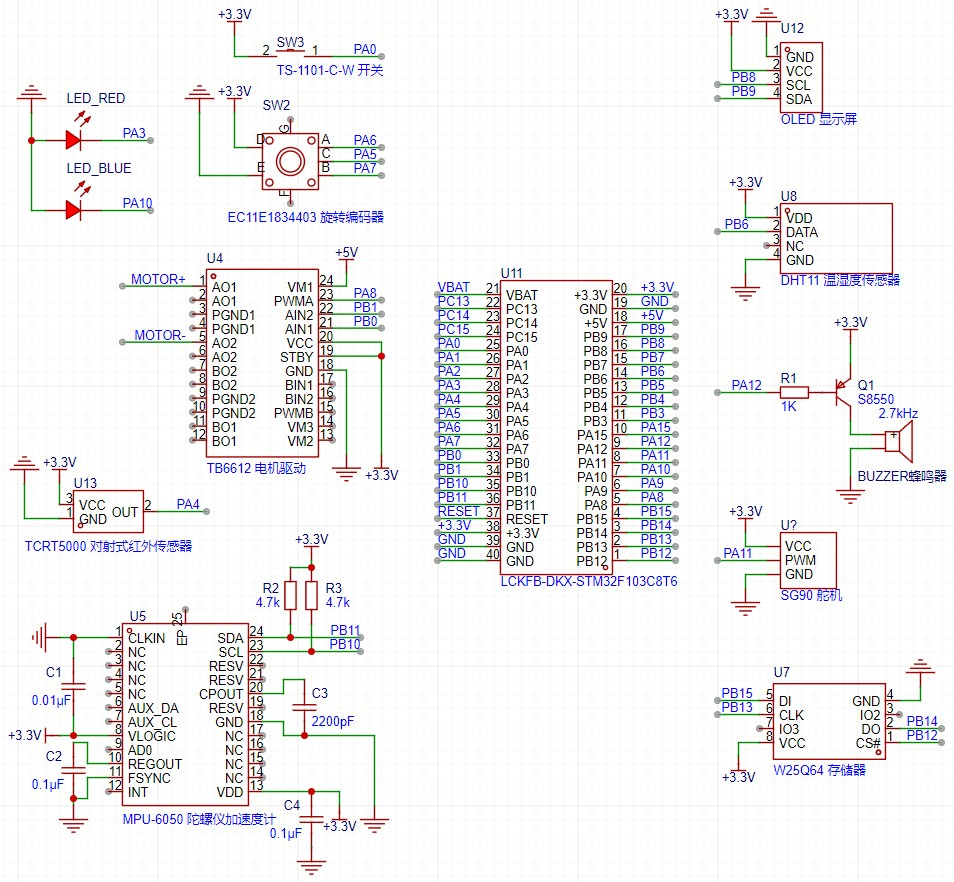
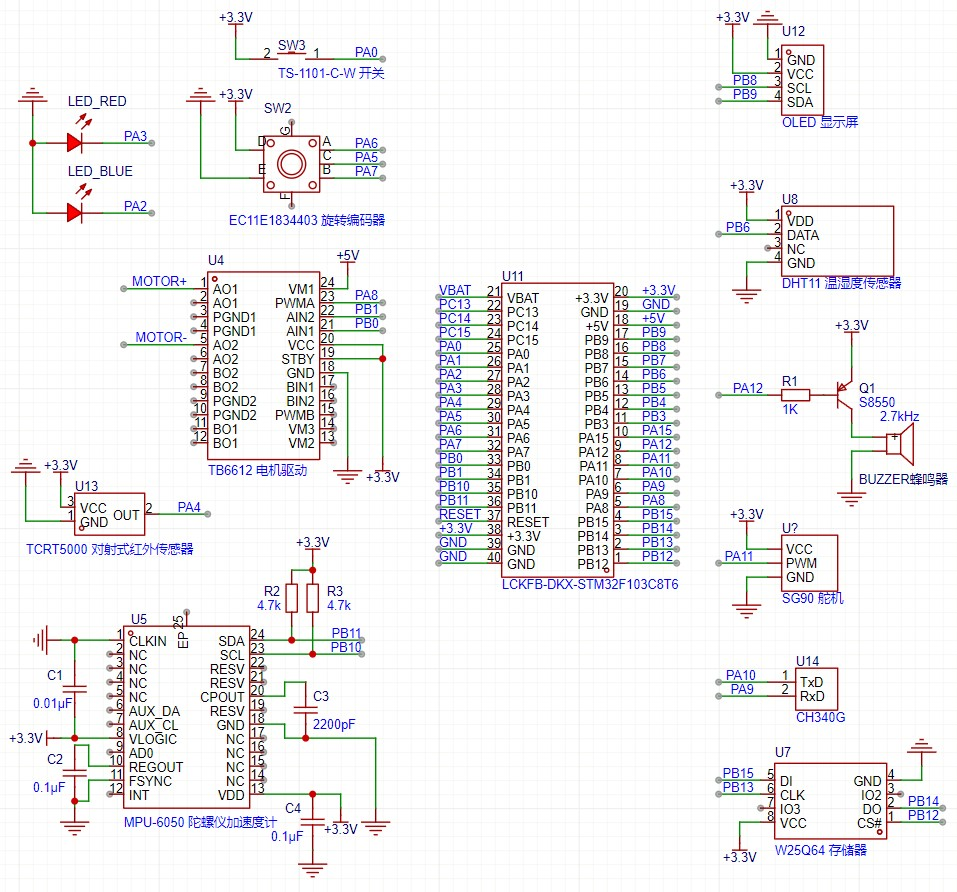
修改LED_Blue的引脚(PA10->PA2)，添加USART驱动，添加Print的Debug驱动

diff --git a/User/Driver/Base/Drv_USART.c b/User/Driver/Base/Drv_USART.c
@@ -1,0 +1,169 @@
+#include "stm32f10x.h"                  // Device header
+#include "Drv_USART.h"
+#include "Sys_Delay.h"
+#include <stdio.h>
+
+
+typedef struct
+{
+    USART_ID ID;
+    GPIO_TypeDef* PORT;
+    uint16_t PIN_TX;
+    uint16_t PIN_RX;
+    GPIOMode_TypeDef MODE_TX;
+    GPIOMode_TypeDef MODE_RX;
+    uint32_t _RCC;
+    USART_TypeDef* USARTx;
+    uint32_t USART_RCC;
+    uint32_t USART_BaudRate;
+    uint16_t USART_WordLength;
+    uint16_t USART_StopBits;
+    uint16_t USART_Parity;
+    uint16_t USART_Mode;
+    uint16_t USART_HardwareFlowControl;
+    uint32_t NVIC_PriorityGroup;
+    uint8_t NVIC_IRQChannel;
+    uint8_t NVIC_IRQChannelPreemptionPriority;
+    uint8_t NVIC_IRQChannelSubPriority;
+    FunctionalState NVIC_IRQChannelCmd;
+} USART_HARDWARE;
+
+typedef struct {
+    USART_ID ID;
+    USART_HARDWARE HW;
+} USART_Data;
+
+void SendData(struct USART_Device* pDev, uint8_t ch);
+int ReceiveData(struct USART_Device* pDev);
+
+
+//--------------------------------------------------
+
+
+static USART_HARDWARE g_USART_HWs[USART_NUM] = {
+    {
+        .ID = USART_1,
+        .PORT = GPIOA,
+        .PIN_TX = GPIO_Pin_9,
+        .PIN_RX = GPIO_Pin_10,
+        .MODE_TX = GPIO_Mode_AF_PP,
+        .MODE_RX = GPIO_Mode_IN_FLOATING,
+        ._RCC = RCC_APB2Periph_GPIOA,
+        .USARTx = USART1,
+        .USART_RCC = RCC_APB2Periph_USART1,
+        .USART_BaudRate = 115200,
+        .USART_WordLength = USART_WordLength_8b,
+        .USART_StopBits = USART_StopBits_1,
+        .USART_Parity = USART_Parity_No,
+        .USART_Mode = USART_Mode_Rx | USART_Mode_Tx,
+        .USART_HardwareFlowControl = USART_HardwareFlowControl_None,
+        .NVIC_PriorityGroup = NVIC_PriorityGroup_4,
+        .NVIC_IRQChannel = USART1_IRQn,
+        .NVIC_IRQChannelPreemptionPriority = 7,
+        .NVIC_IRQChannelSubPriority = 0,
+        .NVIC_IRQChannelCmd = ENABLE,
+    },
+};
+static USART_Data g_USART_Datas[USART_NUM];
+static USART_Device g_USART_Devs[USART_NUM];
+
+
+//--------------------------------------------------
+
+
+USART_Device* Drv_USART_GetDevice(USART_ID ID)
+{
+    for (int i = 0; i < sizeof(g_USART_Devs) / sizeof(g_USART_Devs[0]); i++)
+    {
+        USART_Data* pData = (USART_Data*)g_USART_Devs[i].Priv_Data;
+        if (pData == 0)
+            return 0;
+        if (pData->ID == ID)
+            return &g_USART_Devs[i];
+    }
+    return 0;
+}
+
+void Drv_USART_Init(void)
+{
+    for (uint8_t i = 0; i < USART_NUM; i++)
+    {
+        // Get Hardware
+        USART_HARDWARE hw;
+        for (uint8_t j = 0; j < sizeof(g_USART_HWs) / sizeof(g_USART_HWs[0]); j++)
+        {
+            if (g_USART_HWs[j].ID == (USART_ID)i)
+                hw = g_USART_HWs[j];
+        }
+
+        // Data Init
+        g_USART_Datas[i].ID = (USART_ID)i;
+        g_USART_Datas[i].HW = hw;
+
+        // Device Init
+        g_USART_Devs[i].SendData = SendData;
+        g_USART_Devs[i].ReceiveData = ReceiveData;
+        g_USART_Devs[i].Priv_Data = (void*)&g_USART_Datas[i];
+
+        // Hardware Init
+        RCC_APB2PeriphClockCmd(hw._RCC, ENABLE);
+        GPIO_InitTypeDef GPIO_InitStructure;
+        GPIO_InitStructure.GPIO_Pin = hw.PIN_TX;
+        GPIO_InitStructure.GPIO_Speed = GPIO_Speed_50MHz;
+        GPIO_InitStructure.GPIO_Mode = hw.MODE_TX;
+        GPIO_Init(hw.PORT, &GPIO_InitStructure);
+        GPIO_InitStructure.GPIO_Pin = hw.PIN_RX;
+        GPIO_InitStructure.GPIO_Mode = hw.MODE_RX;
+        GPIO_Init(hw.PORT, &GPIO_InitStructure);
+
+        RCC_APB2PeriphClockCmd(hw.USART_RCC, ENABLE);
+        USART_InitTypeDef USART_InitStructure;
+        USART_InitStructure.USART_BaudRate = hw.USART_BaudRate;
+        USART_InitStructure.USART_WordLength = hw.USART_WordLength;
+        USART_InitStructure.USART_StopBits = hw.USART_StopBits;
+        USART_InitStructure.USART_Parity = hw.USART_Parity;
+        USART_InitStructure.USART_Mode = hw.USART_Mode;
+        USART_InitStructure.USART_HardwareFlowControl = hw.USART_HardwareFlowControl;
+        USART_Init(hw.USARTx, &USART_InitStructure);
+
+        NVIC_PriorityGroupConfig(hw.NVIC_PriorityGroup);
+        NVIC_InitTypeDef NVIC_InitStructure;
+        NVIC_InitStructure.NVIC_IRQChannel = hw.NVIC_IRQChannel;
+        NVIC_InitStructure.NVIC_IRQChannelPreemptionPriority = hw.NVIC_IRQChannelPreemptionPriority;
+        NVIC_InitStructure.NVIC_IRQChannelSubPriority = hw.NVIC_IRQChannelSubPriority;
+        NVIC_InitStructure.NVIC_IRQChannelCmd = hw.NVIC_IRQChannelCmd;
+        NVIC_Init(&NVIC_InitStructure);
+
+        USART_ITConfig(hw.USARTx, USART_IT_RXNE, ENABLE);
+        USART_Cmd(hw.USARTx, ENABLE);
+    }
+}
+
+
+//--------------------------------------------------
+
+
+static void SendData(USART_Device* pDev, uint8_t ch)
+{
+    USART_Data* pData = (USART_Data*)pDev->Priv_Data;
+    if (pData == 0)
+        return;
+
+    /* 发送一个字节数据到USART */
+    USART_SendData(pData->HW.USARTx, ch);
+
+    /* 等待发送数据寄存器为空 */
+    while (USART_GetFlagStatus(pData->HW.USARTx, USART_FLAG_TXE) == RESET);
+}
+
+static int ReceiveData(struct USART_Device* pDev)
+{
+    USART_Data* pData = (USART_Data*)pDev->Priv_Data;
+    if (pData == 0)
+        return 0;
+
+    /* 等待串口输入数据 */
+    while (USART_GetFlagStatus(pData->HW.USARTx, USART_FLAG_RXNE) == RESET);
+
+    return (int)USART_ReceiveData(pData->HW.USARTx);
+}

diff --git a/User/Driver/Base/Drv_Debug.c b/User/Driver/Base/Drv_Debug.c
@@ -1,0 +1,25 @@
+#include "stm32f10x.h"
+#include <stdio.h>
+#include "Drv_USART.h"
+
+
+//重定向c库函数printf到串口，重定向后可使用printf函数
+int fputc(int ch, FILE* f)
+{
+    USART_Device* pDev_USART = Drv_USART_GetDevice(USART_1);
+    if (pDev_USART == 0)
+        return ch;
+
+    pDev_USART->SendData(pDev_USART, (uint8_t)ch);
+    return (ch);
+}
+
+//重定向c库函数scanf到串口，重写向后可使用scanf、getchar等函数
+int fgetc(FILE* f)
+{
+    USART_Device* pDev_USART = Drv_USART_GetDevice(USART_1);
+    if (pDev_USART == 0)
+        return 0;
+
+    return pDev_USART->ReceiveData(pDev_USART);
+}

diff --git a/User/App/Task_Start.c b/User/App/Task_Start.c
@@ -27,12 +27,12 @@ void Do_Create_Task_Start(void)
     xReturn = xTaskCreate(Task_Start, "Task_Start", 1024, NULL, 1, &Task_Start_Handle);
     if (pdPASS == xReturn)
     {
-        // printf("Do_Create_Task_Start Success! \r\n");
+        printf("Do_Create_Task_Start Success! \r\n");
         vTaskStartScheduler();
     }
     else
     {
-        // printf("Error:Do_Create_Task_Start! \r\n");
+        printf("Error:Do_Create_Task_Start! \r\n");
     }
 }
 

diff --git a/User/App/Task_MainMenu.c b/User/App/Task_MainMenu.c
@@ -20,11 +20,11 @@ void Do_Create_Task_MainMenu(void)
     xReturn = xTaskCreate(Task_MainMenu, "Task_MainMenu", 1024, NULL, 1, &Task_MainMenu_Handle);
     if (pdPASS == xReturn)
     {
-        // printf("Create_Task_MainMenu Success! \r\n");
+        printf("Create_Task_MainMenu Success! \r\n");
     }
     else
     {
-        // printf("Error:Create_Task_MainMenu! \r\n");
+        printf("Error:Create_Task_MainMenu! \r\n");
     }
 }
 

diff --git a/User/App/Task_KeyScan.c b/User/App/Task_KeyScan.c
@@ -22,11 +22,11 @@ void Do_Create_Task_KeyScan(void)
     xReturn = xTaskCreate(Task_KeyScan, "Task_KeyScan", 512, NULL, 5, &Task_KeyScan_Handle);
     if (pdPASS == xReturn)
     {
-        // printf("Create_Task_KeyScan Success! \r\n");
+        printf("Create_Task_KeyScan Success! \r\n");
     }
     else
     {
-        // printf("Error:Create_Task_KeyScan! \r\n");
+        printf("Error:Create_Task_KeyScan! \r\n");
     }
 }
 

diff --git a/User/Driver/Base/Drv_USART.h b/User/Driver/Base/Drv_USART.h
@@ -1,0 +1,22 @@
+#ifndef __USART_H
+#define __USART_H
+
+
+typedef enum
+{
+    USART_1,
+    USART_NUM,
+} USART_ID;
+
+typedef struct USART_Device {
+    void(*SendData)(struct USART_Device* pDev, uint8_t ch);
+    int(*ReceiveData)(struct USART_Device* pDev);
+    void* Priv_Data;
+} USART_Device;
+
+USART_Device* Drv_USART_GetDevice(USART_ID ID);
+
+void Drv_USART_Init(void);
+
+
+#endif

diff --git a/User/App/Washer.c b/User/App/Washer.c
@@ -30,7 +30,7 @@ static uint8_t g_Washer_Data[10] = { 0 };
 #define LED_GPIO_RCC RCC_APB2Periph_GPIOA
 #define LED_GPIO_x GPIOA
 #define LED_GPIO_PIN_R GPIO_Pin_3
-#define LED_GPIO_PIN_B GPIO_Pin_10
+#define LED_GPIO_PIN_B GPIO_Pin_2
 
 typedef enum {
 	LED_RED = 0,

diff --git a/User/main.c b/User/main.c
@@ -1,8 +1,14 @@
 #include "Task_Manager.h"
+#include "Drv_USART.h"
 
 
 int main(void)
 {
+	//串口初始化，以便Printf输出
+	Drv_USART_Init();
+
+	//创建任务
 	Do_Create_Task_Start();
+
 	while (1) {}; /* 正常不会执行到这里 */
 }

diff --git a/User/App/Task_Manager.h b/User/App/Task_Manager.h
@@ -2,6 +2,8 @@
 #ifndef __TASK_MANAGER_H__
 #define __TASK_MANAGER_H__
 
+#include <stdio.h>
+
 #include "FreeRTOS.h"
 #include "task.h"
 #include "queue.h"
